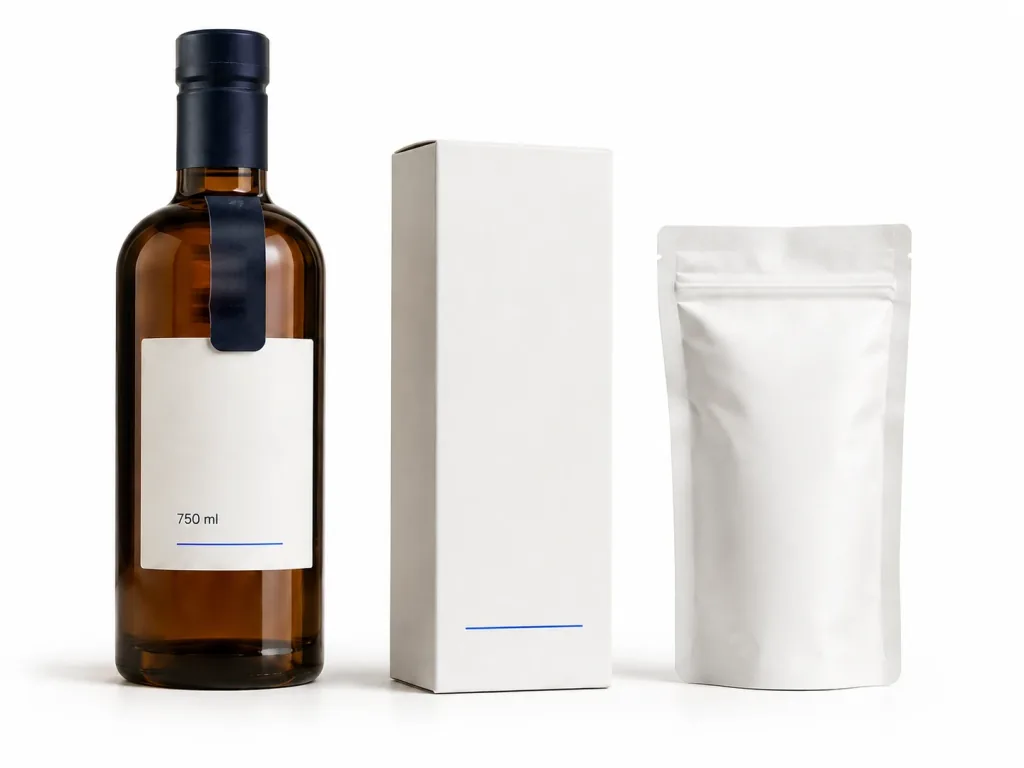
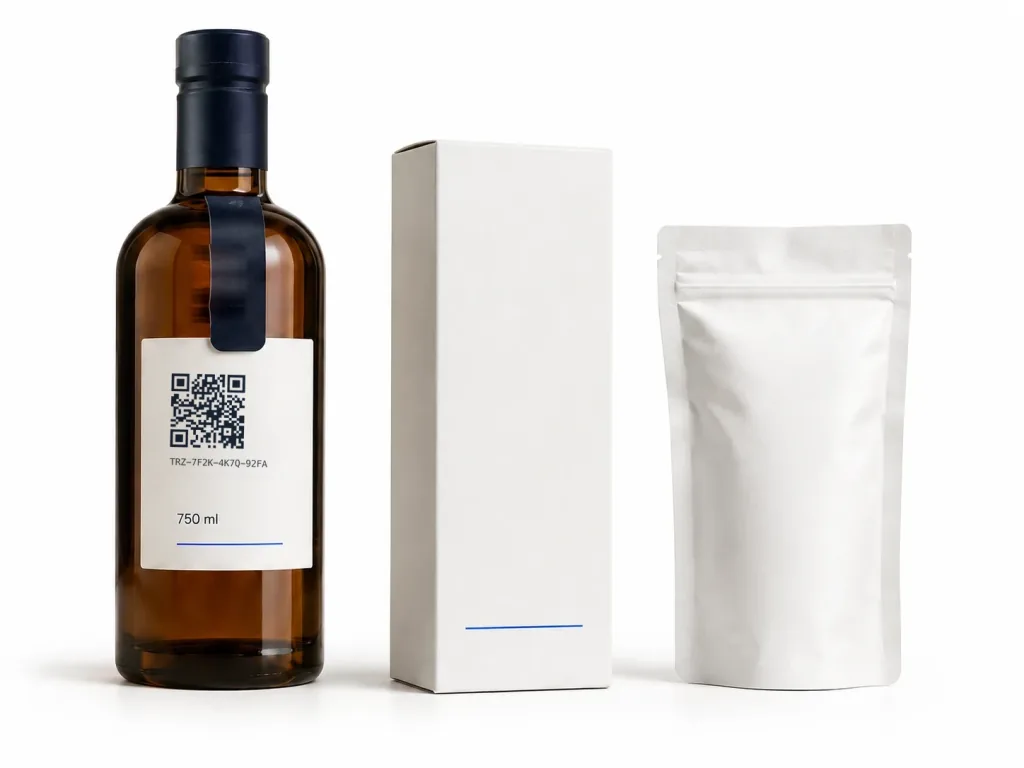
Pase visual: la botella del hero lleva su identidad, y el ritmo se aprieta
- El pill gris con icono de información era el hueco que dejó el rótulo de
  demostración; con el eslogan dentro se leía como un aviso sobre nada. Pasa a
  ser un antetítulo en versalitas, sin caja.
- La etiqueta de la botella quedó vacía al retirar «Producto demo». Ahora lleva
  el QR y el identificador de la unidad, compuestos sobre el papel en modo
  multiplicativo para que la sombra y el vignette de la foto se sigan viendo.
  El contenido del QR es el mismo que describe `/etiqueta/`: URL en mayúsculas,
  modo alfanumérico, corrección de errores nivel Q. Decodifica correctamente en
  las tres variantes de ancho (comprobado, no supuesto), y la línea del hero
  ahora conecta ese código con el mismo código de la tarjeta de registro: la
  portada demuestra el producto en lugar de describirlo.
- «Un registro. Tres perspectivas.» era la sección más importante con el
  tratamiento más pobre: tres filas de tabla. Pasa a tres tarjetas con el
  número como marca de agua.
- El ritmo vertical baja de 7rem a 5,5rem entre secciones: en pantallas anchas
  había huecos de más de trescientos píxeles entre bloques.
- El texto alternativo del hero describe ahora el código de la etiqueta.

Changed region(s): [[0.1562, 0.4688, 0.25, 0.625]]

diff --git a/src/content/v2-home.ts b/src/content/v2-home.ts
@@ -28,7 +28,7 @@ export const V2_HOME: Record<Locale, HomeV2Content> = {
       badge: 'Identidad digital para productos reales', title: ['El origen importa', 'La evidencia conecta'],
       intro: 'Tecnología de trazabilidad para conectar productos, industria e instituciones.',
       primaryAction: 'Conocer el proceso', secondaryAction: 'Probar verificación',
-      imageAlt: 'Una botella ámbar etiquetada, una caja y una bolsa sin marca, sobre fondo neutro.',
+      imageAlt: 'Una botella ámbar cuya etiqueta lleva un código QR y el identificador TRZ-7F2K-4K7Q-92FA, junto a una caja y una bolsa sin marca.',
       relationship: 'La botella representa una unidad vinculada a su registro. La relación de datos no certifica el objeto físico ni corresponde a los otros envases.',
     },
     record: { title: 'Registro de la unidad', productLabel: 'Producto', product: 'Ron · 750 ml', lotLabel: 'Lote', eventLabel: 'Último evento', event: 'Consulta pública', disclaimer: 'La consulta no certifica autenticidad física.', action: 'Explorar el registro' },
@@ -64,7 +64,7 @@ export const V2_HOME: Record<Locale, HomeV2Content> = {
       badge: 'Digital identity for real products', title: ['Origin matters', 'Evidence connects'],
       intro: 'Traceability technology connecting products, industry and institutions.',
       primaryAction: 'Discover the process', secondaryAction: 'Try verification',
-      imageAlt: 'A labelled amber bottle, a carton and an unbranded pouch on a neutral background.',
+      imageAlt: 'An amber bottle whose label carries a QR code and the identifier TRZ-7F2K-4K7Q-92FA, next to a carton and an unbranded pouch.',
       relationship: 'The bottle represents a unit linked to its record. This data relationship does not certify the physical object or apply to the other packages.',
     },
     record: { title: 'Unit record', productLabel: 'Product', product: 'Rum · 750 ml', lotLabel: 'Lot', eventLabel: 'Latest event', event: 'Public query', disclaimer: 'The lookup does not certify physical authenticity.', action: 'Explore the record' },
